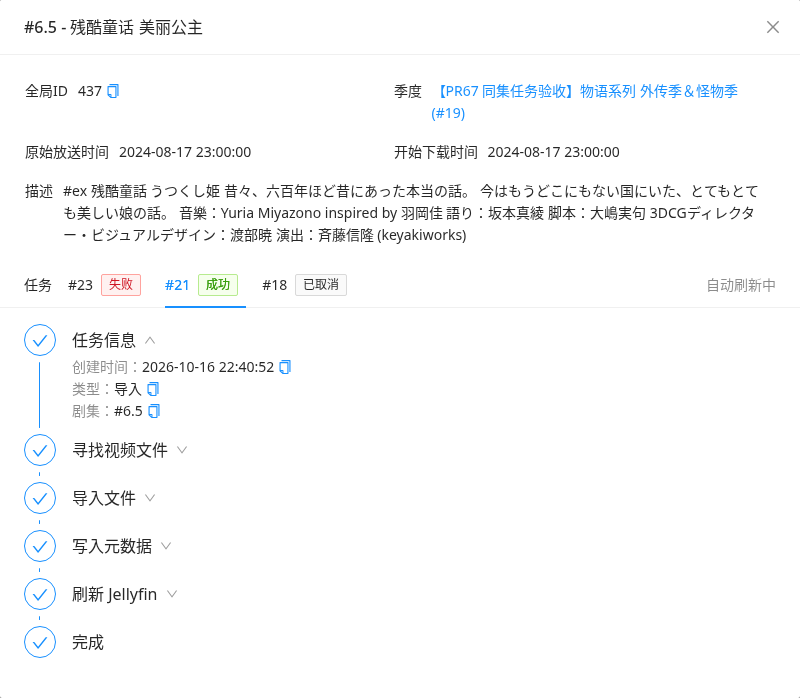
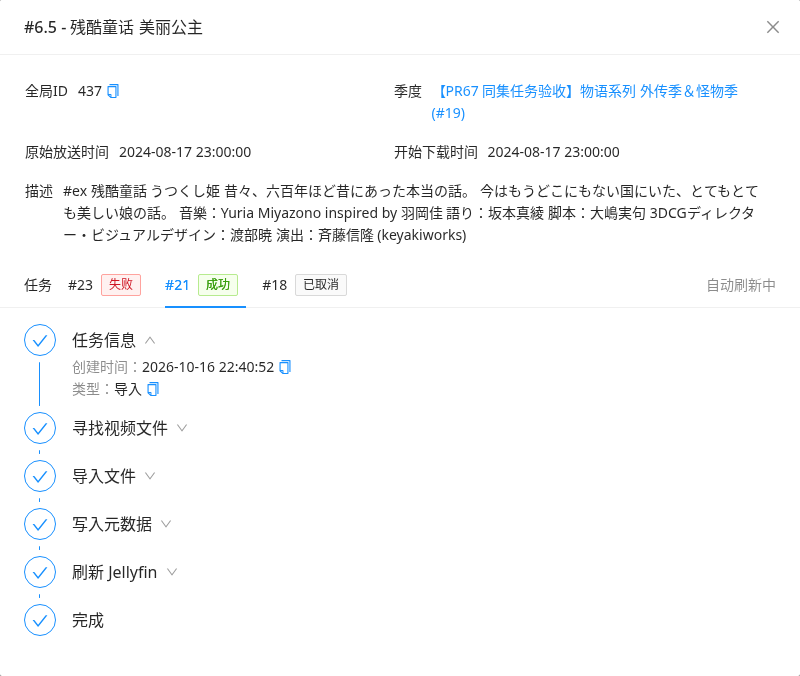
fix(admin): 补齐历史任务完成步骤并精简导入信息

diff --git a/apps/admin/src/components/TaskWorkflow/legacy-compat.test.ts b/apps/admin/src/components/TaskWorkflow/legacy-compat.test.ts
@@ -12,6 +12,12 @@ it('旧任务成功步骤均可展开，不伪造任何时间或取消权限', (
   const view = legacyWorkflow(legacy(LegacyTaskStage.Available));
   expect(view.steps.every((step) => step.status === 'succeeded')).toBe(true);
   expect(view.status).toBe('succeeded');
+  expect(view.currentStepId).toBe('publish');
+  expect(view.steps[view.steps.length - 1]).toMatchObject({
+    id: 'publish',
+    title: '完成',
+    status: 'succeeded',
+  });
   expect(view.finishedAt).toBeUndefined();
   expect(view.error).toBeUndefined();
 });
@@ -30,6 +36,11 @@ it.each([
       (step) => step.id === view.currentStepId,
     );
     expect(view.status).toBe('cancelled');
+    expect(view.steps[view.steps.length - 1]).toMatchObject({
+      id: 'publish',
+      title: '完成',
+      status: 'cancelled',
+    });
     expect(view.cancellation?.stepId).toBe(view.currentStepId);
     expect(
       view.steps
@@ -53,7 +64,13 @@ it('旧任务缺失的失败时间保持为空，不使用创建时间替代', (
     'pending',
     'pending',
     'pending',
+    'pending',
   ]);
+  expect(view.steps[view.steps.length - 1]).toMatchObject({
+    id: 'publish',
+    title: '完成',
+    status: 'pending',
+  });
 });
 
 it.each([LegacyTaskStage.Renaming, LegacyTaskStage.Unavailable])(

diff --git a/apps/admin/src/components/TaskWorkflow/index.tsx b/apps/admin/src/components/TaskWorkflow/index.tsx
@@ -16,7 +16,7 @@ import {
 import { ReactNode, useEffect, useState } from 'react';
 import styles from './index.module.less';
 import Field from './Field';
-import { TASK_TYPE_LABELS, taskEpisodesLabel } from '@/utils/task-episodes';
+import { TASK_TYPE_LABELS } from '@/utils/task-episodes';
 import { atomViews } from './atoms';
 import { parseWorkflow } from '@lani/workflow';
 import { legacyWorkflow } from './legacy-compat';
@@ -152,10 +152,8 @@ export default function TaskWorkflowView({
           >
             <Field label="创建时间">{formatTime(task.createdAt)}</Field>
             <Field label="类型">{TASK_TYPE_LABELS[task.type]}</Field>
-            {task.type === 'DOWNLOAD' ? (
+            {task.type === 'DOWNLOAD' && (
               <Field label="种子地址">{task.torrentLink}</Field>
-            ) : (
-              <Field label="剧集">{taskEpisodesLabel(task)}</Field>
             )}
           </StepDetails>
         }

diff --git a/apps/admin/src/components/TaskWorkflow/index.test.tsx b/apps/admin/src/components/TaskWorkflow/index.test.tsx
@@ -287,6 +287,12 @@ it.each([true, false])(
     expect(toggles[1].getAttribute('aria-expanded')).toBe('true');
     const failed = container.querySelector('.ant-steps-item-error')!;
     expect(failed.textContent).toContain('失败原因：种子不存在');
+    const completion = container.querySelector('[data-step-id="publish"]')!;
+    expect(completion.querySelector('.ant-steps-item-title')?.textContent).toBe(
+      '完成',
+    );
+    expect(completion.getAttribute('data-step-status')).toBe('pending');
+    expect(completion.querySelector('button')).toBeNull();
     expect(failed.querySelector('button[aria-expanded]')).toBeNull();
     expect(container.querySelector('button.ant-btn-dangerous')).toBeNull();
     await act(async () =>

diff --git a/apps/admin/src/components/TaskWorkflow/legacy-compat.ts b/apps/admin/src/components/TaskWorkflow/legacy-compat.ts
@@ -38,6 +38,12 @@ const legacySteps: (StepDefinition & { legacyStage: LegacyTaskStage })[] = [
     title: '刷新 Jellyfin',
     legacyStage: LegacyTaskStage.PlayerWaiting,
   },
+  {
+    id: 'publish',
+    atom: 'publishEpisode',
+    title: '完成',
+    legacyStage: LegacyTaskStage.Available,
+  },
 ];
 
 /** 只在前端映射旧任务，缺失的历史时间保持为空；绝不回写流程。 */

diff --git a/docs/docs/import-tasks.md b/docs/docs/import-tasks.md
@@ -10,7 +10,7 @@
 
 取消唤醒所有等待项，并等待在途文件操作收敛；已经落地的文件和已经发布的关联保留。暂存文件和 Jellyfin 等待项按任务、关联区分，迟到结果不能写入新尝试。下载和导入共享剧集发布互斥，不覆盖其他任务的产物。导入完成不发送下载发布事件，不触发下载通知或 Lania 发布同步。
 
-批量详情通过「任务流程」「导入列表」页签切换，右侧显示自动刷新状态。导入列表用表格展示源文件和最终剧集映射，各字段可独立复制；路径显示相对目录，复制时保留完整路径。概览与页签内容分别滚动，页签栏作为分界，不额外添加分割线。导入表格贴齐弹窗两侧及页签栏，单元格左右留白与概览对齐，表头在列表滚动时固定顶部。确认导入弹窗最大宽度为 740px。任务列表的固定内容列预留 16px 余量并单独计入 padding，剧集与失败原因按 3:2 分配剩余空间，分别保留 240px、160px 的最小宽度；长剧集标题在单元格内换行。
+导入任务的「任务信息」仅展示创建时间和类型。批量详情通过「任务流程」「导入列表」页签切换，右侧显示自动刷新状态。导入列表用表格展示源文件和最终剧集映射，各字段可独立复制；路径显示相对目录，复制时保留完整路径。概览与页签内容分别滚动，页签栏作为分界，不额外添加分割线。导入表格贴齐弹窗两侧及页签栏，单元格左右留白与概览对齐，表头在列表滚动时固定顶部。确认导入弹窗最大宽度为 740px。任务列表的固定内容列预留 16px 余量并单独计入 padding，剧集与失败原因按 3:2 分配剩余空间，分别保留 240px、160px 的最小宽度；长剧集标题在单元格内换行。
 
 ## 自动偏移
 
@@ -38,7 +38,7 @@
 
 ## 迁移与接口
 
-迁移 `20261016000000_task_episodes` 将现有下载任务的剧集和逐集产物移到关联表，然后移除 Task 上的旧物理列。没有 workflow 的历史任务继续展示；已有 workflow 的单集根检查点通过投影恢复，不改写历史快照，也不回填历史同步导入记录。
+迁移 `20261016000000_task_episodes` 将现有下载任务的剧集和逐集产物移到关联表，然后移除 Task 上的旧物理列。没有 workflow 的历史任务继续展示完整流程，包括末尾的「完成」节点；已知失败阶段之后的步骤显示待执行，取消任务的后续步骤显示已取消，历史成功任务显示已完成。已有 workflow 的单集根检查点通过投影恢复，不改写历史快照，也不回填历史同步导入记录。
 
 GraphQL 的旧单集字段保留为基于关联表的只读投影。新的关联查询使用 `taskEpisodesByTaskId`；反向任务查询兼容 `tasksByEpisodeId`。原来基于外键生成的关联筛选和排序应改用任务—剧集关系。`importSingle`、`importMultiple` 返回值从同步结果改为 `Int` 任务 ID，调用方应打开任务详情查询执行结果。
 
